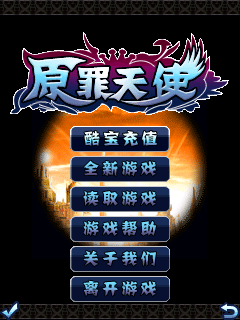
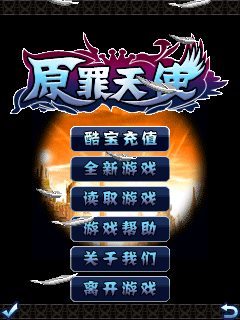
fix: parse .actor animation fields with firmware 16-bit truncation (#114)
The DF animation reader rejected every .actor stream whose 4-byte words
carry non-zero padding in the upper bytes, so 封神演义V101's title.actor
failed to load and the engine's per-frame update never polled the input
edge mask — the title ignored Confirm, both soft keys, direction keys
and taps. The firmware reader keeps only the low 16 bits of each word
(s16(i32::from_le_bytes(...))), so decode by truncation, and read a
negative section count as an empty section like the firmware's
if (n > 0) guards.

Corpus re-capture against the fixed probe: 239/245 idle frames byte
identical; six actor-loading titles improve (menu selectors, mascots
and companion actors render), all states unchanged. 封神演义V101's idle
frame is the interactive menu title; Confirm on 新的游戏 reaches the
retired Coolbar platform login, so full gameplay for this online build
stays offline-blocked (documented in the compatibility row).

diff --git a/crates/coolbaremu-core/src/machine/services/actor.rs b/crates/coolbaremu-core/src/machine/services/actor.rs
@@ -29,10 +29,18 @@ fn parse_animation(bytes: &[u8]) -> Option<Animation> {
         }
         fn integer(&mut self) -> Option<i16> {
             let value = i32::from_le_bytes(self.take(4)?.try_into().ok()?);
-            i16::try_from(value).ok()
+            // Every field is a 16-bit value padded to a 4-byte word, and the
+            // firmware reader keeps only the low 16 bits (封神演义V101's
+            // title.actor carries 0x00800000 padding words).  Decode by
+            // truncation instead of rejecting the whole animation.
+            Some(value as i16)
         }
         fn count(&mut self) -> Option<usize> {
-            usize::try_from(self.integer()?).ok().filter(|n| *n <= 4096)
+            // Negative counts read as empty sections, matching the firmware's
+            // `if (n > 0)` section guards.
+            let value = self.integer()?;
+            let value = usize::try_from(value).unwrap_or(0);
+            (value <= 4096).then_some(value)
         }
     }
     let mut reader = Reader { bytes, position: 0 };
@@ -301,5 +309,54 @@ mod tests {
         invalid[22..26].copy_from_slice(&32767i32.to_le_bytes());
         assert!(parse_animation(&invalid).is_none());
         assert!(parse_animation(&bytes[..bytes.len() - 1]).is_none());
+    }
+
+    #[test]
+    fn animation_reads_padded_words_by_low_16_bit_truncation() {
+        // 封神演义V101's title.actor pads its 16-bit fields into 4-byte
+        // words whose upper bytes are not zero (0x00800000); the firmware
+        // reader keeps the low 16 bits, so such words must decode by
+        // truncation instead of rejecting the animation.
+        let mut bytes = Vec::new();
+        bytes.extend_from_slice(&1i32.to_le_bytes());
+        bytes.extend_from_slice(b"\x05a.gif");
+        for value in [1i32, 0, 0, 4, 5, 0, 1, 1, 2, 1, 0, 2, 3, 0, 0] {
+            bytes.extend_from_slice(&value.to_le_bytes());
+        }
+        let animation = parse_animation(&bytes).unwrap();
+        assert_eq!(animation.images[0], b"a.gif");
+        assert_eq!(animation.rectangles[0], [0, 0, 4, 5, 0]);
+        assert_eq!(animation.actions.len(), 1);
+        assert_eq!(animation.actions[0].len(), 1);
+        assert_eq!(animation.actions[0][0].duration, 2);
+        assert_eq!(animation.actions[0][0].parts[0], [0, 2, 3, 0, 0]);
+
+        // Padding noise in a coordinate word truncates to its low bits.
+        let mut padded = bytes.clone();
+        padded[rectangles_offset() + 4..rectangles_offset() + 8]
+            .copy_from_slice(&0x0080_0000i32.to_le_bytes());
+        let animation = parse_animation(&padded).unwrap();
+        assert_eq!(animation.rectangles[0], [0, 0, 4, 5, 0]);
+
+        // A negative section count reads as an empty section.
+        let mut no_actions = bytes.clone();
+        let actions = actions_offset();
+        no_actions[actions..actions + 4].copy_from_slice(&(-1i32).to_le_bytes());
+        let animation = parse_animation(&no_actions).unwrap();
+        assert_eq!(animation.images[0], b"a.gif");
+        assert_eq!(animation.rectangles[0], [0, 0, 4, 5, 0]);
+        assert!(animation.actions.is_empty());
+    }
+
+    /// Offset of the rectangle-count word: image count + length byte +
+    /// image name.
+    fn rectangles_offset() -> usize {
+        4 + 1 + 5
+    }
+
+    /// Offset of the action-count word: rectangles offset + rect count +
+    /// five rectangle words.
+    fn actions_offset() -> usize {
+        rectangles_offset() + 4 + 5 * 4
     }
 }

diff --git a/docs/Game-Compatibility.md b/docs/Game-Compatibility.md
@@ -107,7 +107,7 @@ not provide the original server's content or a real carrier payment service.
 | 5 | `A/三国志@火.CBE` | 240×320 | <img src="images/A/三国志@火.png" width="120" alt="三国志@火 idle frame"> | Not assessed | Ready | Loading message renders; basic startup incomplete |
 | 6 | `A/三国志V101.CBE` | 240×320 | <img src="images/A/三国志V101.png" width="120" alt="三国志V101 idle frame"> | Local receipt; battle unverified | Ready | Title/menu, help, game introduction and the local point-play receipt are checked; after the receipt is acknowledged the render falls from 76,788 px to 291 px and then to 0 although the game screen descriptor is byte-identical at frames 260/325/400 and its logic pointer 0x043E8ACD is intact, so the guest itself decides there is nothing left to draw and battle is unreachable (issue #86) |
 | 7 | `A/俄罗斯方块(免费).CBE` | 240×320 | <img src="images/A/俄罗斯方块(免费).png" width="120" alt="俄罗斯方块(免费) idle frame"> | Not assessed | Ready | Title/menu rendering and basic selection checked for 2,000 frames; complete gameplay unverified |
-| 8 | `A/傲气雄鹰V101.CBE` | 240×320 | <img src="images/A/傲气雄鹰V101.png" width="120" alt="傲气雄鹰V101 idle frame"> | Offline menu; paid play unavailable | Ready | Local SMS billing reaches flight introduction; starting play faults during map loading; flight unavailable |
+| 8 | `A/傲气雄鹰V101.CBE` | 240×320 | <img src="images/A/傲气雄鹰V101.png" width="120" alt="傲气雄鹰V101 idle frame"> | Offline menu; paid play unavailable | Ready | The title menu renders its selection arrows now that the title animation parses (firmware-faithful 16-bit field truncation in `.actor` streams, issue #114); local SMS billing reaches flight introduction; starting play faults during map loading; flight unavailable |
 | 9 | `A/僵尸先生(强推).CBE` | 320×240 | <img src="images/A/僵尸先生(强推).png" width="120" alt="僵尸先生(强推) idle frame"> | No known requirement | Ready | Title/menu, touch selection, help text and return verified for 2,000 frames with supplied companion resources; seed selection accepts peas, sunflowers and potatoes but the plantable lawn is never reached, and CBE-only installation stays unverified (issue #88) |
 | 10 | `A/僵尸先生(新品)V10.CBE` | 320×240 | <img src="images/A/僵尸先生(新品)V10.png" width="120" alt="僵尸先生(新品)V10 idle frame"> | Not assessed | Ready | Blank dark-red panel after 开始 fixed by implementing the game-lcd IMG_DrawChar service 16:10 (#89 still open: the story page now renders and the plant chooser, selection/purchase and pause menu all respond, but the battle scene after 开始游戏 on the chooser does not blit); gameplay beyond the chooser unverified |
 | 11 | `A/僵尸先生V101.CBE` | 320×240 | <img src="images/A/僵尸先生V101.png" width="120" alt="僵尸先生V101 idle frame"> | Blocked: dead server | Ready | Online title: the guest requests the retired Coolbar platform service (vmt.51coolbar.com) and the offline error page is the firmware-faithful result; emulator-side fix is not possible (see issue #90) |
@@ -115,7 +115,7 @@ not provide the original server's content or a real carrier payment service.
 | 13 | `A/卧底风云(精品).CBE` | 240×320 | <img src="images/A/卧底风云(精品).png" width="120" alt="卧底风云(精品) idle frame"> | Not assessed | Ready | Playable: 150-frame confirm-key run reaches the street (72192 px / 89 colors) and returns through `EXIT_ADDRESS`; the shared f7ba663 repair removed the null actor/controller call that stopped it; later stages and audio unverified
 | 14 | `A/卧底风云V10.CBE` | 240×320 | <img src="images/A/卧底风云V10.png" width="120" alt="卧底风云V10 idle frame"> | Not assessed | Ready | Playable: 150-frame confirm-key run reaches the street (71760 px / 50 colors) and returns through `EXIT_ADDRESS`; the scene null-method call is repaired; later stages unverified
 | 15 | `A/卧底风云V101.CBE` | 240×320 | <img src="images/A/卧底风云V101.png" width="120" alt="卧底风云V101 idle frame"> | Blocked: dead server | Ready | Online title: the guest requests the retired Coolbar platform service (vmt.51coolbar.com) and the offline error page is the firmware-faithful result; emulator-side fix is not possible (see issue #93) |
-| 16 | `A/原罪天使V101.CBE` | 240×320 | <img src="images/A/原罪天使V101.png" width="120" alt="原罪天使V101 idle frame"> | Blocked: dead server | Ready | Online title: the guest requests the retired Coolbar platform service (vmt.51coolbar.com) and the offline error page is the firmware-faithful result; emulator-side fix is not possible (see issue #94) |
+| 16 | `A/原罪天使V101.CBE` | 240×320 | <img src="images/A/原罪天使V101.png" width="120" alt="原罪天使V101 idle frame"> | Blocked: dead server | Ready | The idle frame is the animated title menu now that the title animation parses (issue #114); 新的游戏 still requires the retired Coolbar platform service (vmt.51coolbar.com), and the offline error page for it is the firmware-faithful result (see issue #94) |
 | 17 | `A/双截龙(新品).CBE` | 240×320 | <img src="images/A/双截龙(新品).png" width="120" alt="双截龙(新品) idle frame"> | Not assessed | Ready | Level 1-1 loads with rooms, pickups and HUD and the life value reacts to attack input, but the player and enemies stay invisible apart from a clipped red smear in the top-left corner (issue #95) |
 | 18 | `A/双截龙V10.CBE` | 240×320 | <img src="images/A/双截龙V10.png" width="120" alt="双截龙V10 idle frame"> | Not assessed | Ready | The 1-1 tutorial runs and the HUD/life values update, but the world area is black with purple horizontal bars and no character is visible (issue #96) |
 | 19 | `A/变形金刚(新品).CBE` | 240×320 | <img src="images/A/变形金刚(新品).png" width="120" alt="变形金刚(新品) idle frame"> | Not assessed | Ready | Service 72 native tile-map fix (9c021ca): tutorial dialog renders, road/pipe puzzle grid with placed pieces renders, piece selector UI interactive. |
@@ -124,7 +124,7 @@ not provide the original server's content or a real carrier payment service.
 | 22 | `A/合金装备V101.CBE` | 240×320 | <img src="images/A/合金装备V101.png" width="120" alt="合金装备V101 idle frame"> | Not assessed | Ready | Offline continuation frame captured; interaction/gameplay unverified |
 | 23 | `A/喜羊羊与灰太狼@新.CBE` | 240×320 | <img src="images/A/喜羊羊与灰太狼@新.png" width="120" alt="喜羊羊与灰太狼@新 idle frame"> | Not assessed | Ready | Numeric HUD restored; touch shooting and special items raise score to20 and eliminate a wolf; 2,000-frame replay reaches the native death/retry prompt and Back returns to level selection without faults; full campaign/audio unverified |
 | 24 | `A/喜羊羊与灰太狼V10.CBE` | 240×320 | <img src="images/A/喜羊羊与灰太狼V10.png" width="120" alt="喜羊羊与灰太狼V10 idle frame"> | Not assessed | Ready | Local SMS billing simulation enters shooting play; shots/special items yield score20 and one eliminated wolf; 2,500-frame native life-purchase prompt and Back to level selection checked without faults; full campaign/audio unverified |
-| 25 | `A/噗噜噗噜旋转棒V101.CBE` | 240×320 | <img src="images/A/噗噜噗噜旋转棒V101.png" width="120" alt="噗噜噗噜旋转棒V101 idle frame"> | Blocked: dead server | Ready | Online title: the guest requests the retired Coolbar platform service (dl.kvbar.com) and the offline error page is the firmware-faithful result; emulator-side fix is not possible (see issue #101) |
+| 25 | `A/噗噜噗噜旋转棒V101.CBE` | 240×320 | <img src="images/A/噗噜噗噜旋转棒V101.png" width="120" alt="噗噜噗噜旋转棒V101 idle frame"> | Blocked: dead server | Ready | The title mascot actor renders now that the title animation parses (issue #114); the guest still requests the retired Coolbar platform service (dl.kvbar.com), and the offline error page for it is the firmware-faithful result (see issue #101) |
 | 26 | `A/在线书城(新品).CBE` | 240×320 | <img src="images/A/在线书城(新品).png" width="120" alt="在线书城(新品) idle frame"> | Required for online content | Ready | Title, toolbar and directional selection verified for 2,000 frames; online content and request completion unverified |
 | 27 | `A/在线书城V10.CBE` | 240×320 | <img src="images/A/在线书城V10.png" width="120" alt="在线书城V10 idle frame"> | Not assessed | Ready | Book background/icons and usage prompt render; font/layout differences remain; interaction unverified |
 | 28 | `A/坦克大战(新品).CBE` | 240×320 | <img src="images/A/坦克大战(新品).png" width="120" alt="坦克大战(新品) idle frame"> | Not assessed | Ready | Playable: 150-frame confirm-key run completes the scene (15353 px / 142 colors) and returns through `EXIT_ADDRESS`; the same shared repair removed the PC=0 fetch; controls and later stages unverified
@@ -139,7 +139,7 @@ not provide the original server's content or a real carrier payment service.
 | 37 | `A/太空堡垒V10.CBE` | 240×320 | <img src="images/A/太空堡垒V10.png" width="120" alt="太空堡垒V10 idle frame"> | Not assessed | Ready | Playable: 150-frame confirm-key run finishes Ready (24751 px / 107 colors) and returns through `EXIT_ADDRESS`; the level-start null object call is repaired; later stages unverified
 | 38 | `A/封神演义(新品).CBE` | 240×320 | <img src="images/A/封神演义(新品).png" width="120" alt="封神演义(新品) idle frame"> | Not assessed | Ready | Playable: 150-frame confirm-key run finishes Ready (61440 px / 61 colors) and returns through `EXIT_ADDRESS`; the scene-load null address call is repaired; later stages unverified
 | 39 | `A/封神演义V10.CBE` | 240×320 | <img src="images/A/封神演义V10.png" width="120" alt="封神演义V10 idle frame"> | Not assessed | Ready | Playable: 150-frame confirm-key run finishes Ready (61440 px / 61 colors) and returns through `EXIT_ADDRESS`; the scene-load null address call is repaired; later stages unverified
-| 40 | `A/封神演义V101.CBE` | 240×320 | <img src="images/A/封神演义V101.png" width="120" alt="封神演义V101 idle frame"> | Not assessed | Ready | Title renders, but early and late Confirm, both soft keys, the numeric action/direction keys and taps all fail to leave it — it is still the title at 1,200 frames (issue #114) |
+| 40 | `A/封神演义V101.CBE` | 240×320 | <img src="images/A/封神演义V101.png" width="120" alt="封神演义V101 idle frame"> | Blocked: dead server | Ready | Title, Confirm, both soft keys, direction keys and taps all respond (issue #114): the idle frame is the interactive menu title (新的游戏/读取进度/游戏帮助/离开游戏 navigate with 4/6); Confirm on 新的游戏 reaches the Coolbar platform login (vmt.51coolbar.com), whose retired service keeps actual gameplay offline-blocked — the offline login/error/update flow was mapped in issue #114 |
 | 41 | `A/小酷V10.CBE` | 240×320 | <img src="images/A/小酷V10.png" width="120" alt="小酷V10 idle frame"> | Not assessed | Ready | Idle frame captured; interaction/gameplay unverified |
 | 42 | `A/小酷V101.CBE` | 240×320 | <img src="images/A/小酷V101.png" width="120" alt="小酷V101 idle frame"> | Required | Ready | Offline startup advances past update prompt; waiting screen, timeout popup and single dismissal checked; subsequent Back can fault, and message text and usable online content are missing |
 | 43 | `A/小酷书城(免费看书)V101.CBE` | 240×320 | <img src="images/A/小酷书城(免费看书)V101.png" width="120" alt="小酷书城(免费看书)V101 idle frame"> | Not assessed | Ready | Offline continuation frame captured; interaction/gameplay unverified |
@@ -171,7 +171,7 @@ not provide the original server's content or a real carrier payment service.
 | 69 | `A/漫画大王(新品).CBE` | 240×320 | <img src="images/A/漫画大王(新品).png" width="120" alt="漫画大王(新品) idle frame"> | Not assessed | Ready | Title text renders; comic content and basic functionality unverified |
 | 70 | `A/炸弹人(新品).CBE` | 240×320 | <img src="images/A/炸弹人(新品).png" width="120" alt="炸弹人(新品) idle frame"> | Not assessed | Ready | Playable: 150-frame confirm-key run reaches the stage (76800 px / 365 colors) and returns through `EXIT_ADDRESS`; the payload-valued method slot is treated as an unimplemented call; later stages unverified
 | 71 | `A/热辣美图(新品).CBE` | 240×320 | <img src="images/A/热辣美图(新品).png" width="120" alt="热辣美图(新品) idle frame"> | Not assessed | Ready | Title, complete usage prompt and picture-browser navigation verified for 2,000 frames; remote downloads unverified |
-| 72 | `A/爱之征途V101.CBE` | 240×320 | <img src="images/A/爱之征途V101.png" width="120" alt="爱之征途V101 idle frame"> | Blocked: dead server | Ready | Online title: the guest requests the retired Coolbar platform service (vmt.51coolbar.com) and the offline error page is the firmware-faithful result; emulator-side fix is not possible (see issue #130) |
+| 72 | `A/爱之征途V101.CBE` | 240×320 | <img src="images/A/爱之征途V101.png" width="120" alt="爱之征途V101 idle frame"> | Blocked: dead server | Ready | The title companion actor renders now that the title animation parses (issue #114); the guest still requests the retired Coolbar platform service (vmt.51coolbar.com), and the offline error page for it is the firmware-faithful result (see issue #130) |
 | 73 | `A/王牌伞兵(新品).CBE` | 240×320 | <img src="images/A/王牌伞兵(新品).png" width="120" alt="王牌伞兵(新品) idle frame"> | Not assessed | Ready | Playable: 150-frame confirm-key run finishes Ready (74587 px / 163 colors) and returns through `EXIT_ADDRESS`; the Loading null method call is repaired; later stages unverified
 | 74 | `A/王牌伞兵V10.CBE` | 240×320 | <img src="images/A/王牌伞兵V10.png" width="120" alt="王牌伞兵V10 idle frame"> | Not assessed | Ready | Playable: 150-frame confirm-key run finishes Ready (74535 px / 127 colors) and returns through `EXIT_ADDRESS`; the Loading null method call is repaired; later stages unverified
 | 75 | `A/生化危机(新品).CBE` | 320×240 | <img src="images/A/生化危机(新品).png" width="120" alt="生化危机(新品) idle frame"> | Not assessed | Ready | NIGHT1 background, toolbar and ammo counter render and firing consumes ammo (90→80→60), but no enemy, placement or recognisable attack effect appears by 2,200 frames (issue #133) |
@@ -195,7 +195,7 @@ not provide the original server's content or a real carrier payment service.
 | 93 | `A/联网泡泡龙(新版)V101.CBE` | 240×320 | <img src="images/A/联网泡泡龙(新版)V101.png" width="120" alt="联网泡泡龙(新版)V101 idle frame"> | Blocked: dead server | Ready | Login screen renders and responds to taps, soft keys and arrows; 快速登陆 opens the retired lobby channel `ghlc.51coolbar.com:20050`, so rooms and play are unobtainable |
 | 94 | `A/联网麻将(强推)V101.CBE` | 240×320 | <img src="images/A/联网麻将(强推)V101.png" width="120" alt="联网麻将(强推)V101 idle frame"> | Blocked: dead server | Ready | Login screen renders and responds to taps, soft keys and arrows; 快速登陆 opens the retired lobby channel `ghlc.51coolbar.com:20050`, so rooms and play are unobtainable |
 | 95 | `A/象棋之唐伯虎点秋香V10.CBE` | 240×320 | <img src="images/A/象棋之唐伯虎点秋香V10.png" width="120" alt="象棋之唐伯虎点秋香V10 idle frame"> | Not assessed | Ready | Loading reaches 100% without a board; later input prints 棋局开始 over the stale loading bar and background, so no recognisable Xiangqi move is possible (issue #148) |
-| 96 | `A/贪吃鱼(经典).CBE` | 240×320 | <img src="images/A/贪吃鱼(经典).png" width="120" alt="贪吃鱼(经典) idle frame"> | Not assessed | Ready | Title/menu, help text and basic selection checked; complete gameplay unverified |
+| 96 | `A/贪吃鱼(经典).CBE` | 240×320 | <img src="images/A/贪吃鱼(经典).png" width="120" alt="贪吃鱼(经典) idle frame"> | Not assessed | Ready | Title/menu, help text and basic selection checked; the idle frame moved one animation step now that the title animation parses (issue #114); complete gameplay unverified |
 | 97 | `A/超级八十分(新品).CBE` | 240×320 | <img src="images/A/超级八十分(新品).png" width="120" alt="超级八十分(新品) idle frame"> | Not assessed | Ready | Character profiles display and switch (portraits are grey), but Confirm, 5, the left soft key and a double tap on 确定 never leave character select and no deal appears by 1,500 frames (issue #150) |
 | 98 | `A/超级泡泡龙(新品).CBE` | 240×320 | <img src="images/A/超级泡泡龙(新品).png" width="120" alt="超级泡泡龙(新品) idle frame"> | Touch / keys | Ready | Title/menu, help/back, level selection and game board verified through 2,000 frames; dismiss the startup offer before navigating. Firing effects, full gameplay and paid progression unverified |
 | 99 | `A/超级泡泡龙V10.CBE` | 240×320 | <img src="images/A/超级泡泡龙V10.png" width="120" alt="超级泡泡龙V10 idle frame"> | Touch / keys | Ready | Title/menu, help/back, game board and numeric-5 firing with bubble removal/score increase verified; repeated input through 2,000 frames remains Ready. Full gameplay and paid progression unverified |
